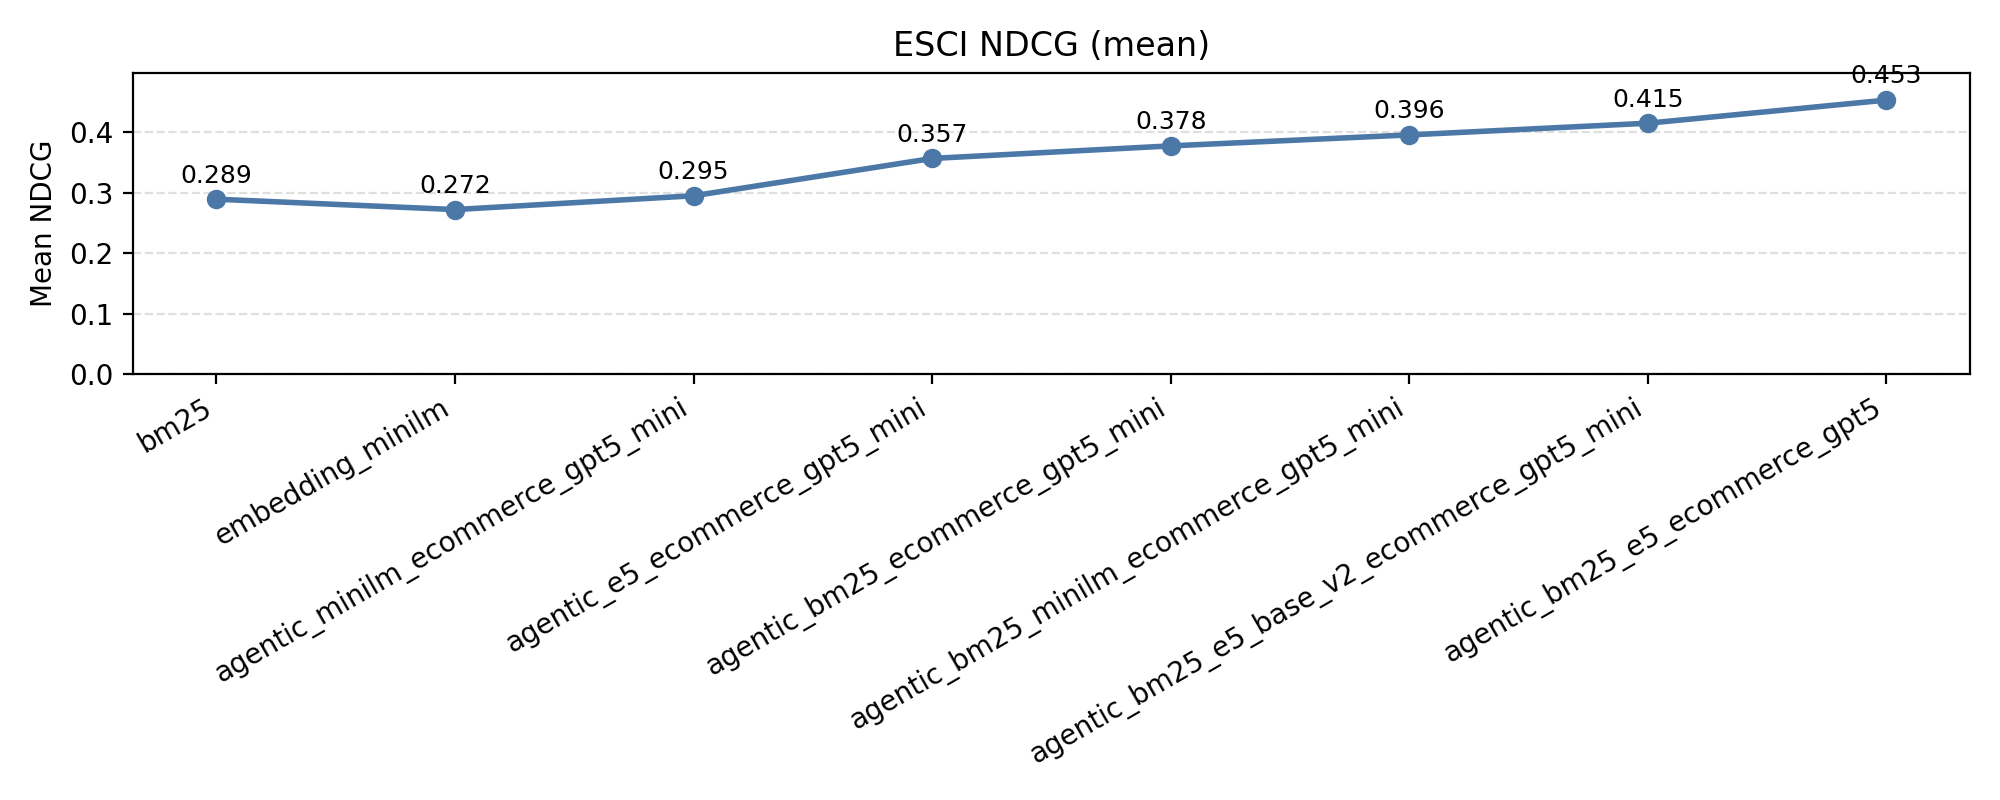
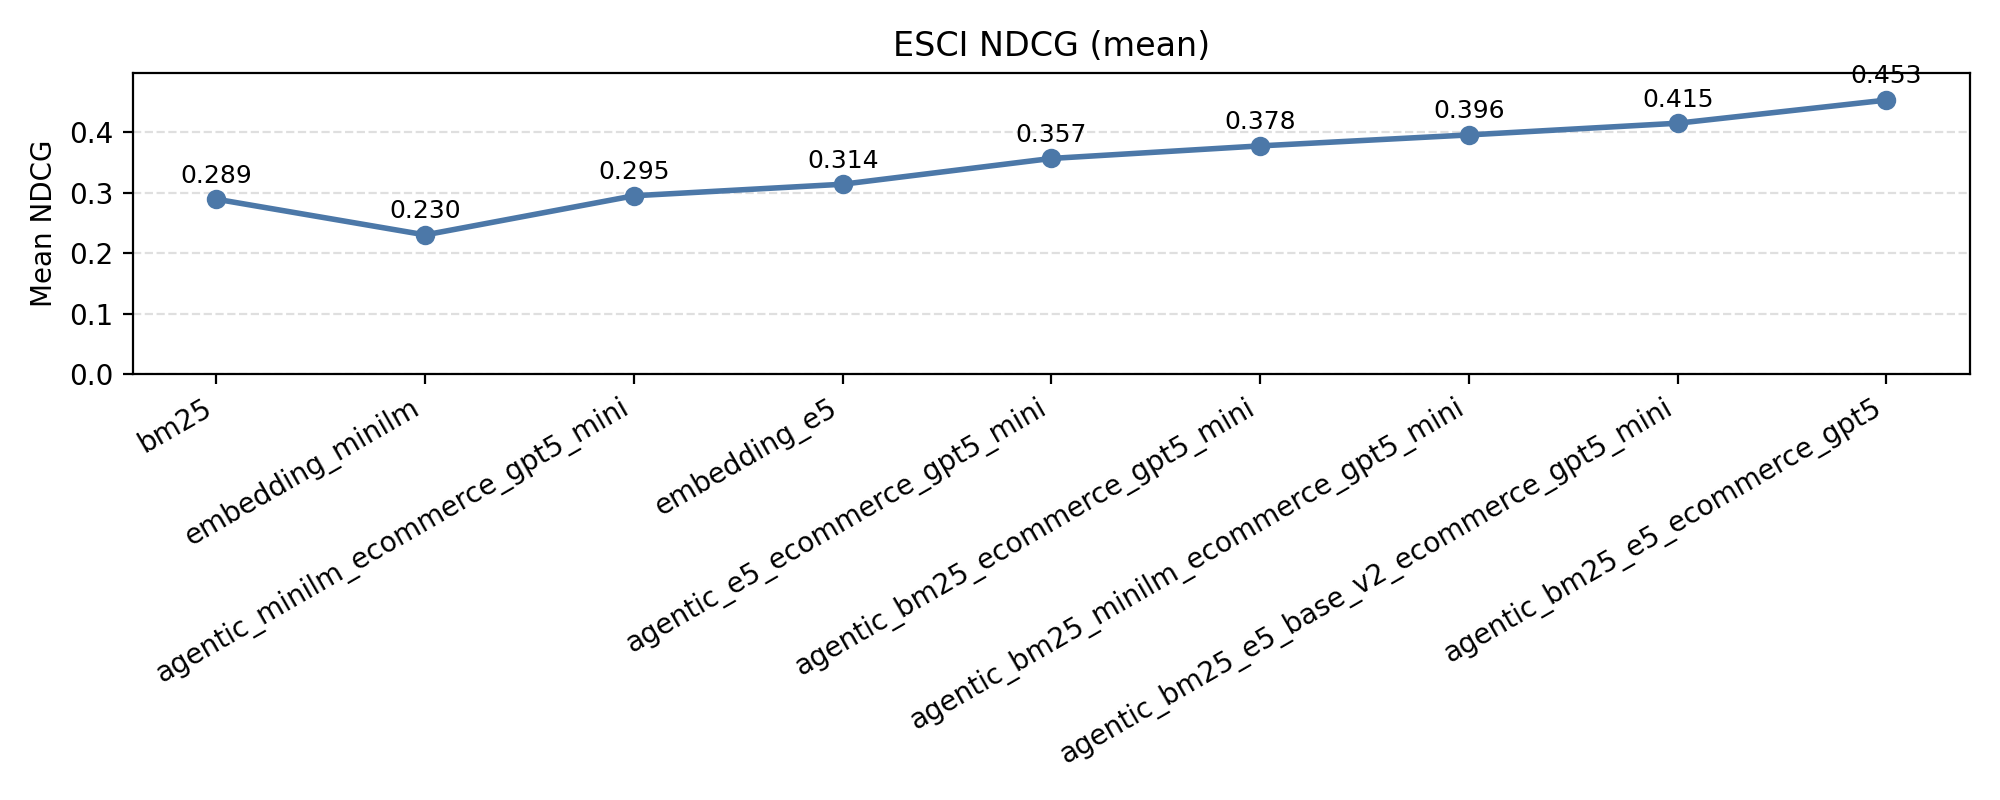
Refresh results tables and plots
Update README tables with embedding_e5 entries and regenerate labeled NDCG plots.

diff --git a/README.md b/README.md
@@ -9,8 +9,9 @@ ESCI (baselines first, agentic sorted by NDCG ascending):
 | strategy | model | mean | median |
 |---|---|---|---|
 | [bm25](configs/bm25.yml) | n/a | 0.2895 | 0.1707 |
-| [embedding_minilm](configs/embedding_minilm.yml) | n/a | 0.2723 | 0.1552 |
+| [embedding_minilm](configs/embedding_minilm.yml) | n/a | 0.2304 | 0.0854 |
 | [agentic_minilm_ecommerce_gpt5_mini](configs/agentic_ecom_minilm_gpt5_mini.yml) | gpt-5-mini | 0.2952 | 0.1749 |
+| [embedding_e5](configs/embedding_e5_base_v2.yml) | n/a | 0.3142 | 0.2250 |
 | [agentic_e5_ecommerce_gpt5_mini](configs/agentic_ecom_e5_base_v2_gpt5_mini.yml) | gpt-5-mini | 0.3569 | 0.3399 |
 | [agentic_bm25_ecommerce_gpt5_mini](configs/agentic_ecom_bm25_gpt5_mini.yml) | gpt-5-mini | 0.3777 | 0.3414 |
 | [agentic_bm25_minilm_ecommerce_gpt5_mini](configs/agentic_ecom_2tools_gpt5_mini.yml) | gpt-5-mini | 0.3958 | 0.3414 |
@@ -24,8 +25,9 @@ WANDS (baselines first, agentic sorted by NDCG ascending):
 | strategy | model | mean | median |
 |---|---|---|---|
 | [bm25](configs/bm25.yml) | n/a | 0.5408 | 0.4746 |
-| [embedding_minilm](configs/embedding_minilm.yml) | n/a | 0.5316 | 0.4779 |
+| [embedding_minilm](configs/embedding_minilm.yml) | n/a | 0.5060 | 0.4083 |
 | [agentic_minilm_ecommerce_gpt5_mini](configs/agentic_ecom_minilm_gpt5_mini.yml) | gpt-5-mini | 0.5330 | 0.4874 |
+| [embedding_e5](configs/embedding_e5_base_v2.yml) | n/a | 0.5571 | 0.5475 |
 | [agentic_e5_ecommerce_gpt5_mini](configs/agentic_ecom_e5_base_v2_gpt5_mini.yml) | gpt-5-mini | 0.5789 | 0.5609 |
 | [agentic_bm25_ecommerce_gpt5_mini](configs/agentic_ecom_bm25_gpt5_mini.yml) | gpt-5-mini | 0.5795 | 0.5609 |
 | [agentic_bm25_minilm_ecommerce_gpt5_mini](configs/agentic_ecom_2tools_gpt5_mini.yml) | gpt-5-mini | 0.5867 | 0.5609 |
